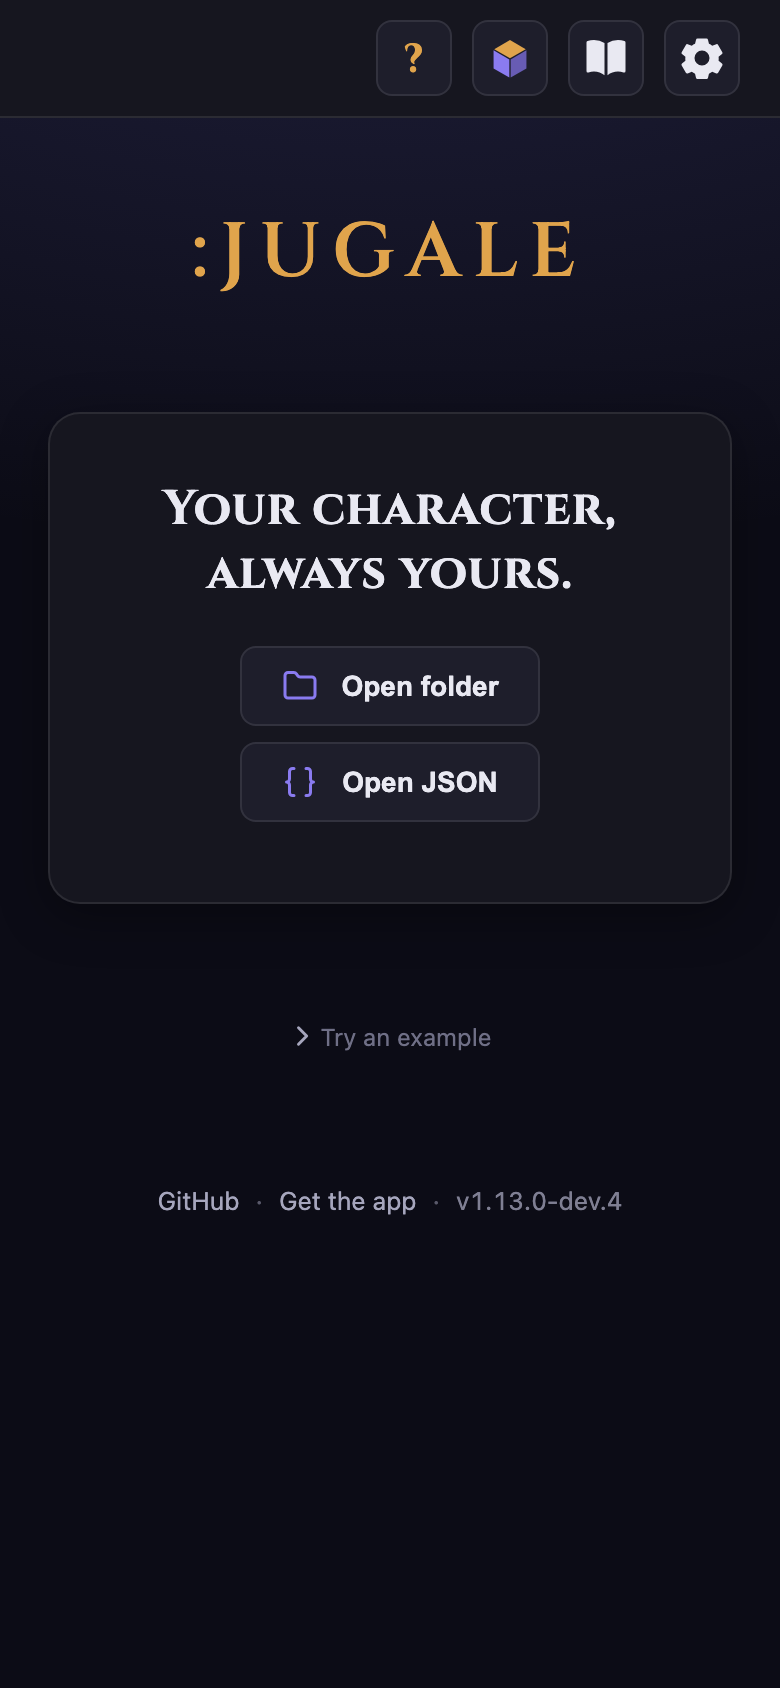
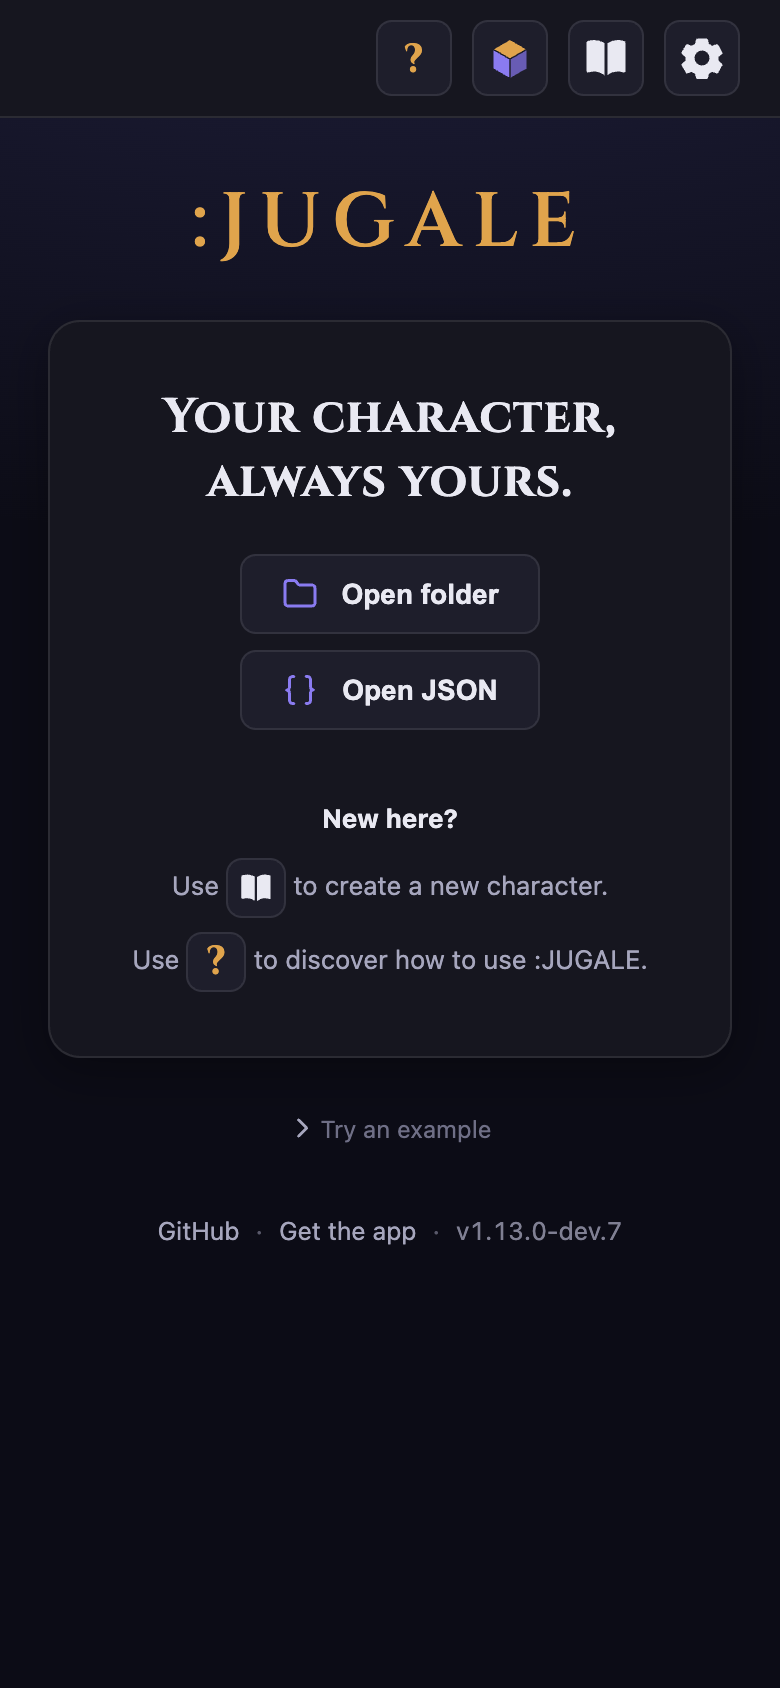
fix: polish onboarding and Android import guidance

diff --git a/src/i18n/useI18n.ts b/src/i18n/useI18n.ts
@@ -51,7 +51,7 @@ const en = {
   "empty.getApp": "Get the app",
   "empty.newHere": "New here?",
   "empty.use": "Use",
-  "empty.createCharacter": "to create a new character, or",
+  "empty.createCharacter": "to create a new character.",
   "empty.discoverJugale": "to discover how to use :JUGALE.",
   "empty.createCharacterAction": "Create a new character",
   "empty.discoverJugaleAction": "Discover how to use :JUGALE",
@@ -171,6 +171,7 @@ const en = {
   "incoming.nameMismatch": "The received character has a different name from the target.",
   "incoming.applyTo": "Apply to {name}",
   "incoming.chooseOther": "Choose another character",
+  "incoming.chooseTarget": "Choose character folder",
   "incoming.targetNotEmpty": "That folder is not empty and has no character.json. Choose another folder.",
   "incoming.applied": "Character updated",
   "incoming.error.unsupported-type": "JUGALE can only receive a shared JSON file.",
@@ -558,7 +559,7 @@ const it: Record<StringKey, string> = {
   "empty.getApp": "Scarica l'app",
   "empty.newHere": "Sei nuovo?",
   "empty.use": "Usa",
-  "empty.createCharacter": "per creare un nuovo personaggio, oppure",
+  "empty.createCharacter": "per creare un nuovo personaggio.",
   "empty.discoverJugale": "per scoprire come usare :JUGALE.",
   "empty.createCharacterAction": "Crea un nuovo personaggio",
   "empty.discoverJugaleAction": "Scopri come usare :JUGALE",
@@ -675,6 +676,7 @@ const it: Record<StringKey, string> = {
   "incoming.nameMismatch": "Il personaggio ricevuto ha un nome diverso dalla destinazione.",
   "incoming.applyTo": "Applica a {name}",
   "incoming.chooseOther": "Scegli un altro personaggio",
+  "incoming.chooseTarget": "Scegli cartella personaggio",
   "incoming.targetNotEmpty": "La cartella non è vuota e non contiene character.json. Scegli un'altra cartella.",
   "incoming.applied": "Personaggio aggiornato",
   "incoming.error.unsupported-type": "JUGALE può ricevere soltanto un file JSON condiviso.",

diff --git a/src/help/content/it.ts b/src/help/content/it.ts
@@ -157,7 +157,8 @@ export const helpIt: HelpCatalog = assertHelpCatalog({
         {
           title: "Su Android",
           flow: ["Apri Prompt", "Premi Condividi", "Scegli un chatbot", "Completa l'aggiornamento", "Condividi character.json verso JUGALE"],
-          steps: ["Controlla il nome del personaggio e la destinazione mostrati da JUGALE.", "Se serve, scegli un'altra cartella personaggio.", "Conferma soltanto quando entrambi sono corretti."],
+          intro: "Quando il chatbot ha terminato, scarica il character.json completo. Da File o Download, condividi quel file e scegli JUGALE oppure JUGALE Dev. JUGALE mostra sempre un'anteprima prima di modificare qualcosa.",
+          steps: ["Se hai già un personaggio aperto, JUGALE propone la sua cartella come destinazione. Controlla entrambi i nomi prima di continuare.", "Se non hai un personaggio aperto, premi Scegli cartella personaggio e seleziona la cartella da aggiornare.", "Usa Scegli un altro personaggio quando la destinazione proposta non è quella corretta.", "Conferma soltanto quando personaggio ricevuto e destinazione sono corretti. Le immagini già presenti nella cartella restano al loro posto."],
           details: [{ title: "Il chatbot ha risposto con il JSON nel messaggio, non con un file", paragraphs: ["Copia tutto il JSON in un file di testo chiamato character.json, poi condividi quel file verso JUGALE."] }],
         },
         {

diff --git a/src/help/content/en.ts b/src/help/content/en.ts
@@ -157,7 +157,8 @@ export const helpEn: HelpCatalog = assertHelpCatalog({
         {
           title: "On Android",
           flow: ["Open Prompts", "Tap Share", "Choose a chatbot", "Finish the update", "Share character.json back to JUGALE"],
-          steps: ["Check the character name and the destination shown by JUGALE.", "Choose another character folder if needed.", "Confirm only when both are correct."],
+          intro: "When the chatbot has finished, download the complete character.json. In Files or Downloads, share that file and choose JUGALE or JUGALE Dev. JUGALE always shows a preview before changing anything.",
+          steps: ["If a character is already open, JUGALE proposes its folder as the destination. Check both names before continuing.", "If no character is open, tap Choose character folder and select the folder you want to update.", "Use Choose another character when the proposed destination is not the right one.", "Confirm only when the received character and destination are correct. The folder's existing images remain in place."],
           details: [{ title: "The chatbot returned JSON as a message, not a file", paragraphs: ["Copy the complete JSON into a plain-text file named character.json, then share that file to JUGALE."] }],
         },
         {

diff --git a/src/ui/EmptyState.tsx b/src/ui/EmptyState.tsx
@@ -100,13 +100,19 @@ export function EmptyState({
             {t("app.open")}
           </button>
         </div>
-        <p className="empty-onboarding">
-          <strong>{t("empty.newHere")}</strong>{" "}{t("empty.use")}{" "}
-          <span className="empty-inline-action"><PromptsButton onClick={onPrompts} label={t("empty.createCharacterAction")} /></span>{" "}
-          {t("empty.createCharacter")}{" "}
-          <span className="empty-inline-action"><HelpButton onClick={onHelp} label={t("empty.discoverJugaleAction")} /></span>{" "}
-          {t("empty.discoverJugale")}
-        </p>
+        <div className="empty-onboarding">
+          <strong>{t("empty.newHere")}</strong>
+          <p>
+            {t("empty.use")}{" "}
+            <span className="empty-inline-action"><PromptsButton onClick={onPrompts} label={t("empty.createCharacterAction")} /></span>{" "}
+            {t("empty.createCharacter")}
+          </p>
+          <p>
+            {t("empty.use")}{" "}
+            <span className="empty-inline-action"><HelpButton onClick={onHelp} label={t("empty.discoverJugaleAction")} /></span>{" "}
+            {t("empty.discoverJugale")}
+          </p>
+        </div>
       </div>
       {recents.length > 0 && (
         <div className="empty-recents">

diff --git a/src/ui/IncomingCharacterDialog.test.tsx b/src/ui/IncomingCharacterDialog.test.tsx
@@ -24,6 +24,7 @@ describe("IncomingCharacterDialog", () => {
     expect(screen.getByText("1 warnings", { exact: false })).toBeInTheDocument();
     expect(screen.getByText("Target: Astrid")).toBeInTheDocument();
     expect(screen.getByText(/images are left unchanged/i)).toBeInTheDocument();
+    expect(screen.getByRole("button", { name: "Choose another character" })).toBeInTheDocument();
     fireEvent.click(screen.getByRole("button", { name: "Apply to Astrid" }));
     expect(apply).toHaveBeenCalledOnce();
   });
@@ -43,7 +44,7 @@ describe("IncomingCharacterDialog", () => {
       />,
     );
     expect(screen.queryByRole("button", { name: /Apply to/ })).not.toBeInTheDocument();
-    expect(screen.getByRole("button", { name: "Choose another character" })).toBeInTheDocument();
+    expect(screen.getByRole("button", { name: "Choose character folder" })).toBeInTheDocument();
   });
 
   it("renders the confirmation flow in Italian", () => {

diff --git a/src/help/content.test.ts b/src/help/content.test.ts
@@ -29,4 +29,16 @@ describe("help catalogs", () => {
       }
     }
   });
+
+  it("explains the complete Android share-back flow in both locales", () => {
+    const enChatbots = JSON.stringify(helpEn.topics.find((topic) => topic.id === "chatbots"));
+    expect(enChatbots).toContain("share that file and choose JUGALE or JUGALE Dev");
+    expect(enChatbots).toContain("If no character is open");
+    expect(enChatbots).toContain("Choose character folder");
+
+    const itChatbots = JSON.stringify(helpIt.topics.find((topic) => topic.id === "chatbots"));
+    expect(itChatbots).toContain("condividi quel file e scegli JUGALE oppure JUGALE Dev");
+    expect(itChatbots).toContain("Se non hai un personaggio aperto");
+    expect(itChatbots).toContain("Scegli cartella personaggio");
+  });
 });

diff --git a/src/ui/EmptyState.test.tsx b/src/ui/EmptyState.test.tsx
@@ -115,6 +115,10 @@ describe("EmptyState recents", () => {
       />,
     );
 
+    const guidance = document.querySelector(".empty-onboarding")!;
+    expect(guidance.children).toHaveLength(3);
+    expect(guidance.children[0].tagName).toBe("STRONG");
+
     fireEvent.click(screen.getByRole("button", { name: "empty.createCharacterAction" }));
     fireEvent.click(screen.getByRole("button", { name: "empty.discoverJugaleAction" }));
 

diff --git a/src/index.css b/src/index.css
@@ -1923,13 +1923,20 @@ button {
   color: var(--accent);
 }
 .empty-onboarding {
-  margin: 18px 0 0;
+  display: grid;
+  justify-items: center;
+  gap: 7px;
+  margin: 34px 0 0;
   color: var(--muted);
   font-size: 13px;
-  line-height: 1.8;
+  line-height: 1.55;
 }
 .empty-onboarding strong {
   color: var(--text);
+  margin-bottom: 2px;
+}
+.empty-onboarding p {
+  margin: 0;
 }
 .empty-inline-action {
   display: inline-flex;

diff --git a/src/ui/IncomingCharacterDialog.tsx b/src/ui/IncomingCharacterDialog.tsx
@@ -51,7 +51,7 @@ export function IncomingCharacterDialog({
           </button>
         )}
         <button type="button" className="btn" disabled={busy} onClick={onChooseTarget}>
-          {t("incoming.chooseOther")}
+          {t(targetName ? "incoming.chooseOther" : "incoming.chooseTarget")}
         </button>
         <button type="button" className="btn" disabled={busy} onClick={onCancel}>
           {t("prompts.cancel")}
